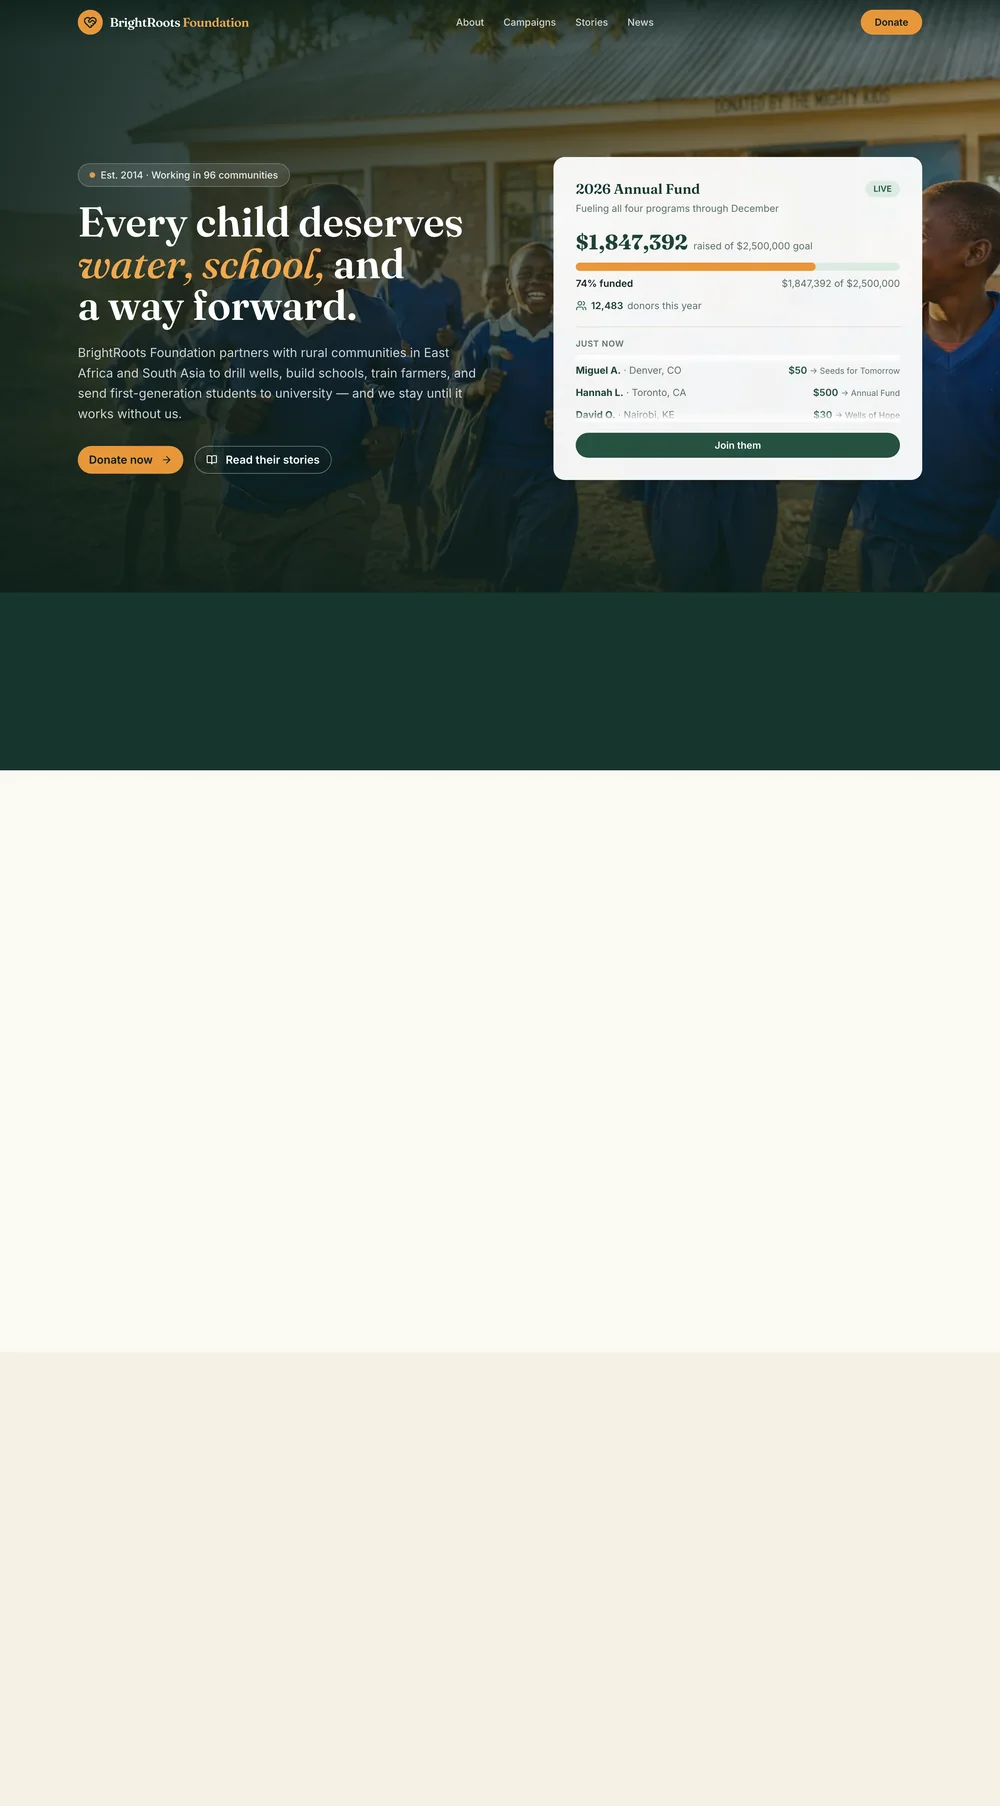
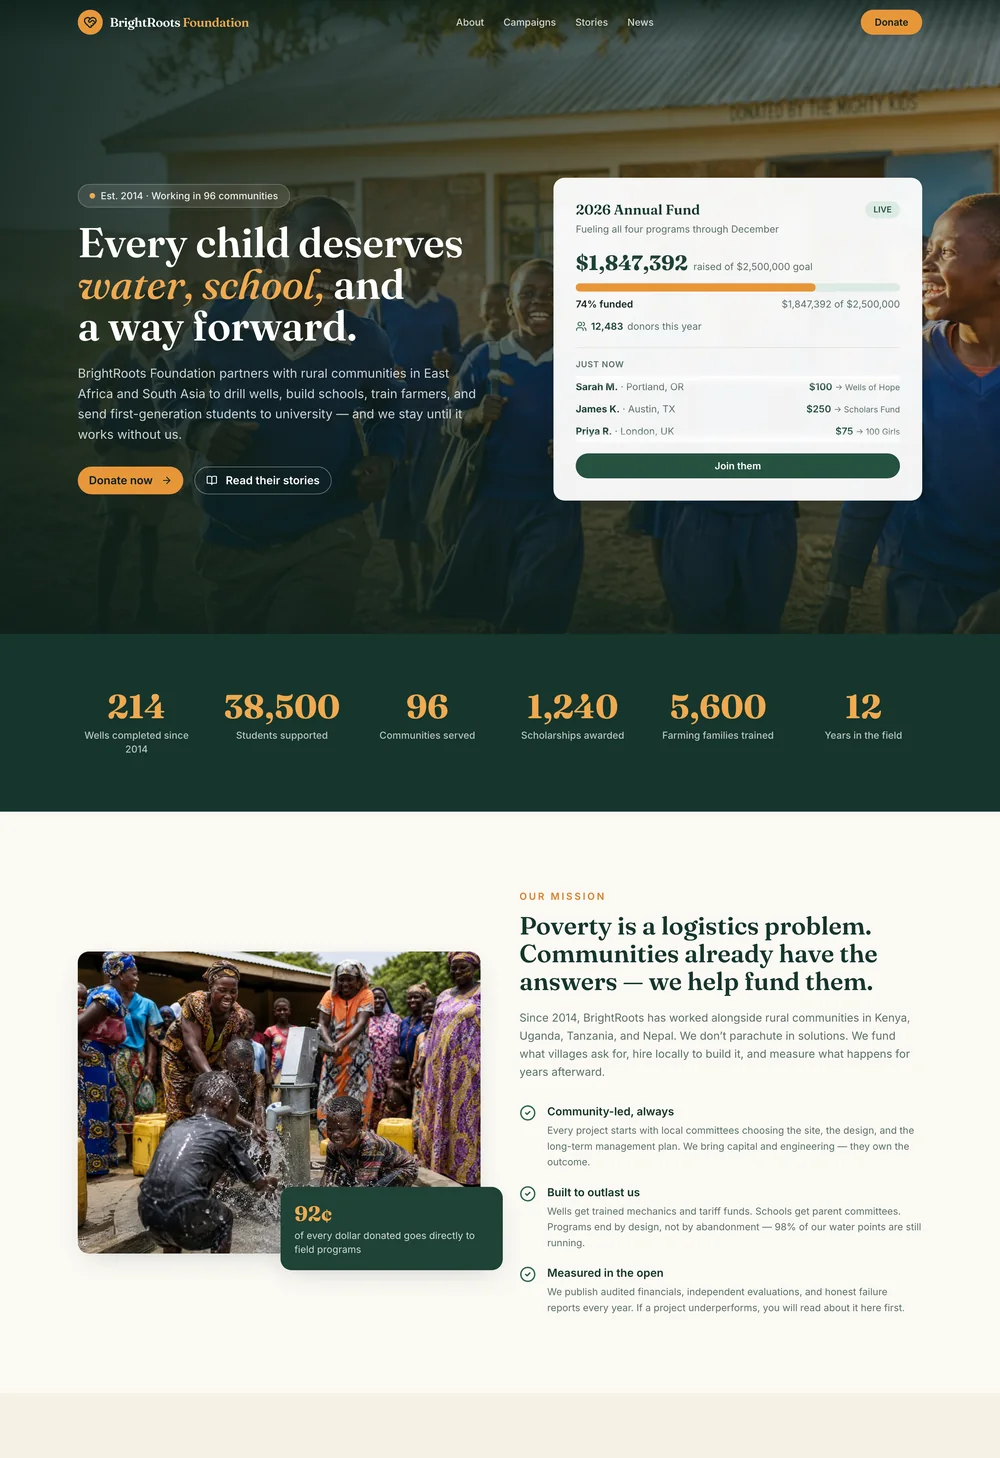
marketing/templates: fill nonprofit/maison cards with content; remove Collections
- Nonprofit and Travel Journal left dark empty space below the hero because
  their below-hero sections are scroll-revealed and the clean capture didn't
  render them. Recaptured both with reveal-forcing (safe here — no cart like the
  ecommerce page), so the card now shows hero + real content (impact stats /
  "Poverty is a logistics problem"; "Six places we know" destinations).
- Removed the Collections section ("Everything you need, bundled") — markup,
  data, render JS, and CSS — since there aren't enough templates to bundle yet.
  Its tiles were all placeholder mocks of templates that no longer exist.

diff --git a/marketing/templates/index.html b/marketing/templates/index.html
@@ -252,117 +252,6 @@
   .unlocks-header { margin-bottom: clamp(32px, 5vh, 52px); position: relative; z-index: 1; }
   .unlocks-header .section-header { margin-bottom: 0; }
 
-  /* ─── COLLECTIONS (bundled template packs — one horizontal scroller per collection, bleeds to viewport right edge with a linear-gradient fade so the affordance to scroll is obvious) ── */
-  /* Left offset matches .section-inner's centered content so the eyebrow + first tile align with the catalog above. */
-  .collections-list {
-    --collections-gutter: max(80px, calc((100vw - 1200px) / 2));
-    position: relative;
-    width: 100%;
-    display: flex;
-    flex-direction: column;
-    gap: 0;
-    margin-top: 40px;
-  }
-  .collection-row { position: relative; }
-  /* Divider hairline between adjacent rows — margin above + padding below balance the space around the line, so the border sits visually centered between the two rows. Adjacent-sibling selector means the first row has no divider. */
-  .collection-row + .collection-row {
-    margin-top: 64px;
-    padding-top: 64px;
-    border-top: 1px solid rgba(255,255,255,0.08);
-  }
-  .collection-header {
-    display: flex;
-    align-items: center;
-    gap: 10px;
-    padding-left: var(--collections-gutter);
-    margin: 0 0 22px;
-  }
-  .collection-icon {
-    width: 18px; height: 18px;
-    color: #7FDDC1;
-    stroke-width: 1.5;
-    fill: none;
-    flex-shrink: 0;
-  }
-  .collection-eyebrow {
-    font-family: 'Silkscreen', monospace;
-    font-size: 14px;
-    letter-spacing: 2px;
-    text-transform: uppercase;
-    color: #7FDDC1;
-    margin: 0;
-  }
-  @media (max-width: 768px) {
-    .collection-eyebrow { font-size: 12px; }
-    .collection-icon { width: 16px; height: 16px; }
-  }
-  .collection-tiles {
-    display: flex;
-    gap: 20px;
-    padding: 4px var(--collections-gutter) 4px var(--collections-gutter);
-    overflow-x: auto;
-    scrollbar-width: none;
-    -ms-overflow-style: none;
-    scroll-behavior: smooth;
-    /* Right-edge fade masks the last ~120px so it's clear more content sits offscreen. */
-    -webkit-mask-image: linear-gradient(90deg, #000 0%, #000 calc(100% - 120px), transparent 100%);
-            mask-image: linear-gradient(90deg, #000 0%, #000 calc(100% - 120px), transparent 100%);
-  }
-  .collection-tiles::-webkit-scrollbar { display: none; }
-  /* Drag-to-scroll affordance — same pattern as the filter row + detail gallery. touch-action:pan-x keeps vertical page swipes passing through on touch devices. */
-  .collection-tiles { cursor: grab; -webkit-user-select: none; user-select: none; touch-action: pan-x; }
-  .collection-tiles.is-dragging { cursor: grabbing; }
-  .collection-tiles.is-dragging .collection-tile { pointer-events: none; }
-  .collection-tile {
-    flex: 0 0 240px;
-    display: flex;
-    flex-direction: column;
-    background: transparent;
-    border: none;
-    padding: 0;
-    text-decoration: none;
-    transition: transform 0.25s ease;
-  }
-  .collection-tile:hover { transform: translateY(-3px); }
-  .collection-tile-preview {
-    aspect-ratio: 4 / 5;
-    border-radius: 4px;
-    overflow: hidden;
-    background: #0a0a10;
-    border: 1px solid rgba(255,255,255,0.08);
-    transition: border-color 0.25s ease;
-  }
-  .collection-tile:hover .collection-tile-preview { border-color: rgba(255,255,255,0.22); }
-  .collection-tile-preview svg { width: 100%; height: 100%; display: block; }
-  .collection-tile-foot {
-    display: flex;
-    align-items: center;
-    justify-content: space-between;
-    gap: 12px;
-    padding: 14px 4px 0;
-  }
-  .collection-tile-name {
-    font-family: 'Inter', sans-serif;
-    font-size: 14px;
-    font-weight: 500;
-    color: rgba(255,255,255,0.92);
-    letter-spacing: -0.1px;
-  }
-  .collection-tile-role {
-    font-family: 'Silkscreen', monospace;
-    font-size: 10px;
-    letter-spacing: 1.2px;
-    text-transform: uppercase;
-    color: rgba(255,255,255,0.5);
-    white-space: nowrap;
-  }
-  @media (max-width: 1024px) {
-    .collections-list { --collections-gutter: 40px; }
-  }
-  @media (max-width: 768px) {
-    .collections-list { --collections-gutter: 16px; gap: 36px; }
-    .collection-tile { flex: 0 0 200px; }
-  }
   .int-card {
     position: relative;
     display: flex;
@@ -1938,22 +1827,7 @@
   <canvas id="section-transition-canvas"></canvas>
 </div>
 
-<!-- ─── COLLECTIONS ───────────────────────────────────────────────────────── -->
-<section class="section featured-section">
-  <div class="section-inner">
-    <div class="dsa-reveal">
-      <div class="section-header">
-        <p class="section-eyebrow eyebrow-scramble">Collections</p>
-        <h2 class="section-headline">Everything you need, bundled</h2>
-        <p class="section-sub">Grab a stack of templates that fit together — spin up a full workflow in an afternoon instead of building each piece from scratch.</p>
-      </div>
-    </div>
-  </div>
-  <!-- Collections list sits outside .section-inner so each row's tile scroller can bleed to the viewport's right edge. Left offset is handled per-row via --collections-gutter. -->
-  <div class="collections-list" id="collections-list">
-    <!-- collection rows injected by JS -->
-  </div>
-</section>
+<!-- Collections section removed — not enough templates to bundle yet. -->
 
 <!-- ─── FOOTER (verbatim enterprise-v2 pattern) ─────────────────────────── -->
 <section class="footer-section">
@@ -2072,56 +1946,6 @@
 <script src="../shared-components.js"></script>
 <script>
 /* ── Template data ─────────────────────────────────────────────────────── */
-/* Bundled template packs. Each `templates` entry is { name, role }; the `name`
-   must match a CATALOG entry so the tile can deep-link to that detail page
-   and reuse the same PREVIEW_MOCK. `role` is the label shown under each tile
-   describing what job that template does inside the bundle. */
-/* Icon SVG paths per collection — inline strings so the render can bake them straight in. Lucide-style stroke icons at 24×24 viewBox, drawn with stroke="currentColor" so they inherit the mint eyebrow color. */
-var COLLECTIONS = [
-  {
-    key:  'service-business',
-    eyebrow: 'Service business',
-    /* briefcase */
-    icon: '<svg viewBox="0 0 24 24" fill="none" stroke="currentColor" stroke-linecap="round" stroke-linejoin="round" class="collection-icon"><rect x="2" y="7" width="20" height="14" rx="2"/><path d="M8 7V5a2 2 0 0 1 2-2h4a2 2 0 0 1 2 2v2"/><path d="M2 13h20"/></svg>',
-    name: 'Everything you need to run a services business',
-    desc: 'Website, CRM, scheduler, quote intake, and invoicing — the full stack for plumbers, agencies, consultants, and studios.',
-    templates: [
-      { name: 'Team Site',         role: 'Website' },
-      { name: 'CRM Lite',          role: 'CRM' },
-      { name: 'Booking App',       role: 'Scheduler' },
-      { name: 'Lead-Gen Page',     role: 'Quotes' },
-      { name: 'Invoice Generator', role: 'Invoicing' },
-    ],
-  },
-  {
-    key:  'saas-launch',
-    eyebrow: 'B2B SaaS launch',
-    /* rocket */
-    icon: '<svg viewBox="0 0 24 24" fill="none" stroke="currentColor" stroke-linecap="round" stroke-linejoin="round" class="collection-icon"><path d="M4.5 16.5c-1.5 1.26-2 5-2 5s3.74-.5 5-2c.71-.84.7-2.13-.09-2.91a2.18 2.18 0 0 0-2.91-.09z"/><path d="m12 15-3-3a22 22 0 0 1 2-3.95A12.88 12.88 0 0 1 22 2c0 2.72-.78 7.5-6 11a22.35 22.35 0 0 1-4 2z"/><path d="M9 12H4s.55-3.03 2-4c1.62-1.08 5 0 5 0"/><path d="M12 15v5s3.03-.55 4-2c1.08-1.62 0-5 0-5"/></svg>',
-    name: 'Ship a SaaS product from marketing to metrics',
-    desc: 'Landing page, pricing, docs, and an internal dashboard — the pieces every SaaS team wires up in week one.',
-    templates: [
-      { name: 'SaaS Landing',        role: 'Marketing' },
-      { name: 'Pricing Page',        role: 'Pricing' },
-      { name: 'Documentation Site',  role: 'Docs' },
-      { name: 'Analytics Dashboard', role: 'Metrics' },
-    ],
-  },
-  {
-    key:  'creator-stack',
-    eyebrow: 'Creator stack',
-    /* pen/edit */
-    icon: '<svg viewBox="0 0 24 24" fill="none" stroke="currentColor" stroke-linecap="round" stroke-linejoin="round" class="collection-icon"><path d="M12 20h9"/><path d="M16.5 3.5a2.121 2.121 0 0 1 3 3L7 19l-4 1 1-4L16.5 3.5z"/></svg>',
-    name: 'Publish, distribute, and grow an audience',
-    desc: 'Portfolio + blog + newsletter + podcast — one place to route people to everything you make.',
-    templates: [
-      { name: 'Writer Portfolio', role: 'Portfolio' },
-      { name: 'Blog Site',        role: 'Blog' },
-      { name: 'Newsletter Site',  role: 'Newsletter' },
-      { name: 'Podcast Site',     role: 'Podcast' },
-    ],
-  },
-];
 
 /* Cards render in array order. Templates backed by a real build lead the grid;
    the rest follow alphabetically. `shot` is a full-page capture of the live
@@ -2208,74 +2032,6 @@ function slugify(s) { return s.toLowerCase().replace(/[^a-z0-9]+/g, '-').replace
   host.innerHTML = halfHtml + halfHtml;
 })();
 
-/* ── Render collections list ──────────────────────────────────────────── */
-(function () {
-  var host = document.getElementById('collections-list');
-  if (!host) return;
-  /* Build a name → CATALOG index map once so each tile's SVG stays deterministic
-     (mock cycled by the catalog position of the template, matching how the
-     catalog page below renders it). */
-  var catalogIdx = {};
-  CATALOG.forEach(function (t, i) { catalogIdx[t.name] = i; });
-
-  host.innerHTML = COLLECTIONS.map(function (c) {
-    var tiles = c.templates.map(function (t) {
-      var idx = catalogIdx[t.name];
-      var mock = idx != null ? PREVIEW_MOCKS[idx % PREVIEW_MOCKS.length] : PREVIEW_MOCKS[0];
-      var href = idx != null ? './detail/?slug=' + slugify(t.name) : '#';
-      return '<a href="' + href + '" class="collection-tile">'
-        +   '<div class="collection-tile-preview" aria-hidden="true">' + mock + '</div>'
-        +   '<div class="collection-tile-foot">'
-        +     '<span class="collection-tile-name">' + t.name + '</span>'
-        +     '<span class="collection-tile-role">' + t.role + '</span>'
-        +   '</div>'
-        + '</a>';
-    }).join('');
-
-    return '<div class="collection-row" id="collection-' + c.key + '">'
-      +   '<div class="collection-header">'
-      +     (c.icon || '')
-      +     '<p class="collection-eyebrow">' + c.eyebrow + '</p>'
-      +   '</div>'
-      +   '<div class="collection-tiles">' + tiles + '</div>'
-      + '</div>';
-  }).join('');
-
-  /* Click-hold-drag horizontal scroll on each collection's tile strip — same pattern as the catalog filter row + detail gallery. .is-dragging only added after >4px movement so pure taps still fire the tile <a> link. */
-  host.querySelectorAll('.collection-tiles').forEach(function (row) {
-    var isDown = false, startX = 0, startScroll = 0, moved = 0;
-    function onMove(e) {
-      if (!isDown) return;
-      var dx = e.clientX - startX;
-      moved = Math.max(moved, Math.abs(dx));
-      if (moved > 4) {
-        if (!row.classList.contains('is-dragging')) row.classList.add('is-dragging');
-        if (e.cancelable) e.preventDefault();
-        row.scrollLeft = startScroll - dx;
-      }
-    }
-    function onUp() {
-      if (!isDown) return;
-      isDown = false;
-      row.classList.remove('is-dragging');
-      window.removeEventListener('pointermove', onMove);
-      window.removeEventListener('pointerup', onUp);
-      window.removeEventListener('pointercancel', onUp);
-    }
-    row.addEventListener('pointerdown', function (e) {
-      if (e.button !== undefined && e.button !== 0) return;
-      if (row.scrollWidth <= row.clientWidth + 1) return;
-      isDown = true; moved = 0;
-      startX = e.clientX; startScroll = row.scrollLeft;
-      window.addEventListener('pointermove', onMove, { passive: false });
-      window.addEventListener('pointerup', onUp);
-      window.addEventListener('pointercancel', onUp);
-    });
-    row.addEventListener('click', function (e) {
-      if (moved > 5) { e.preventDefault(); e.stopPropagation(); }
-    }, true);
-  });
-})();
 
 /* ── Render + filter catalog ──────────────────────────────────────────── */
 (function () {
